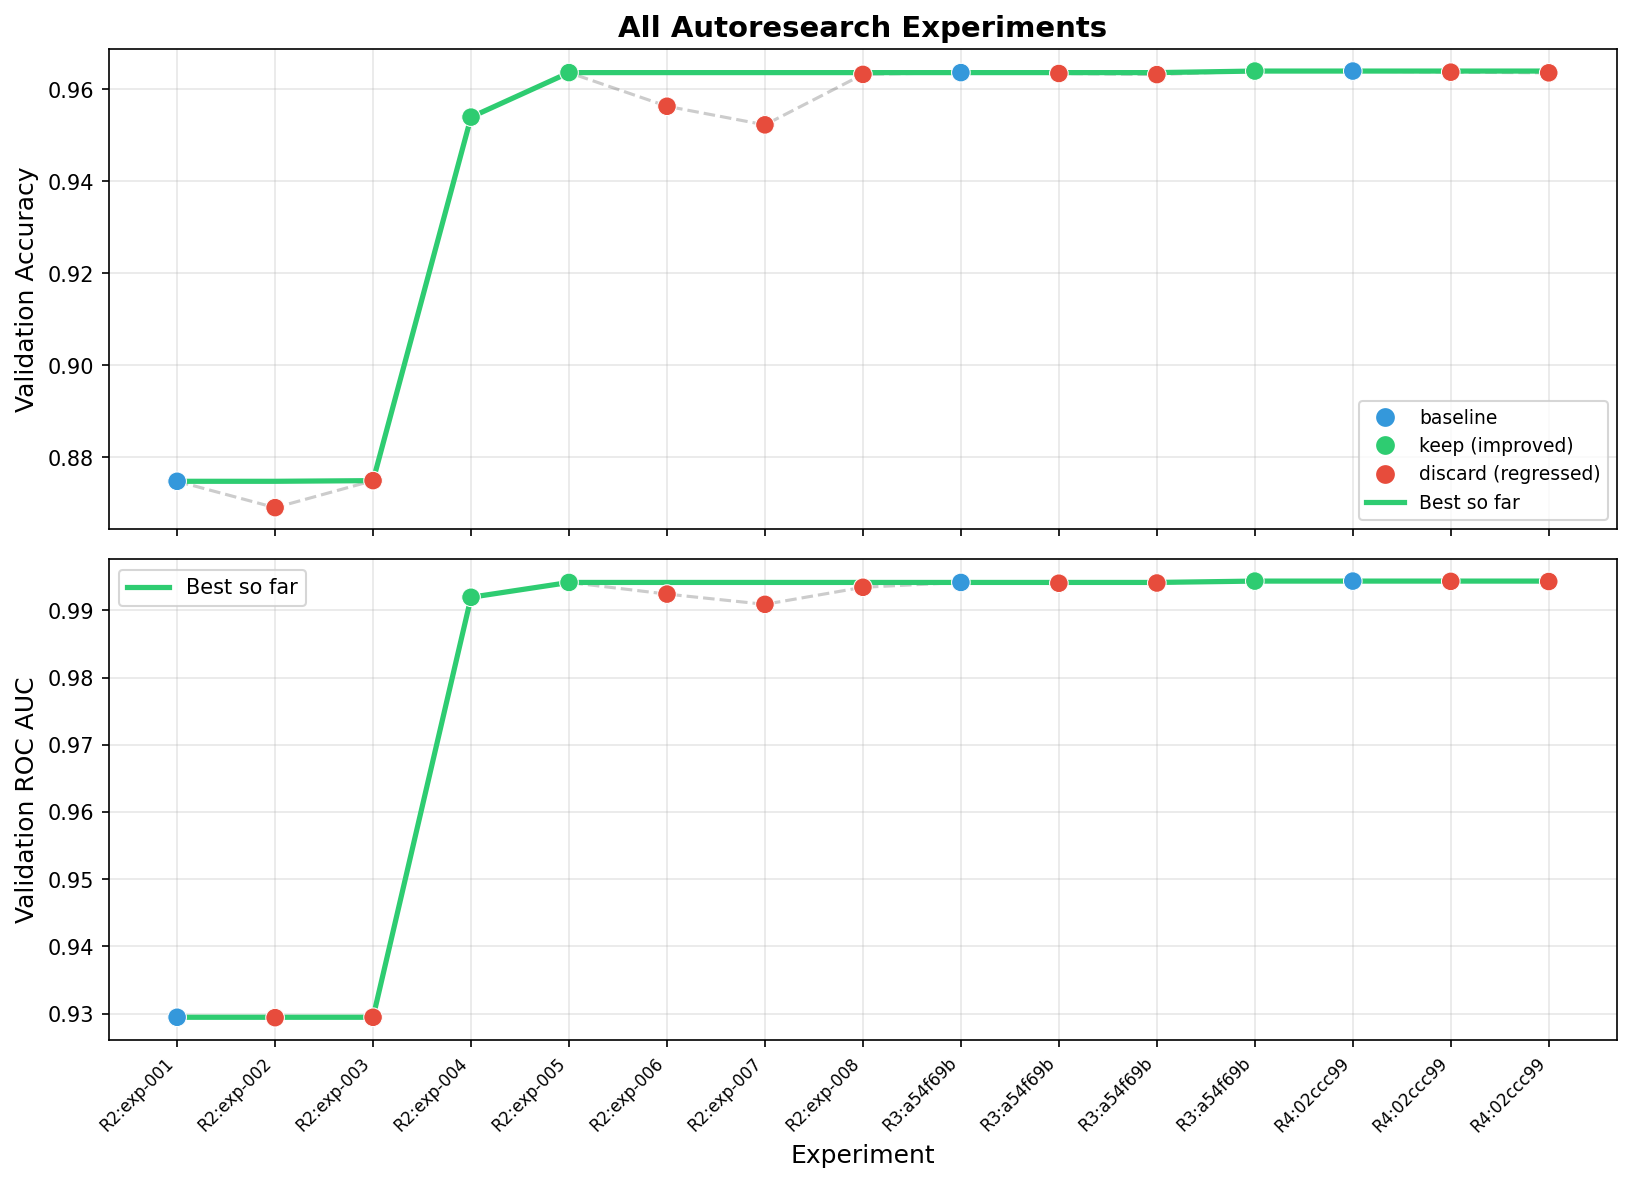
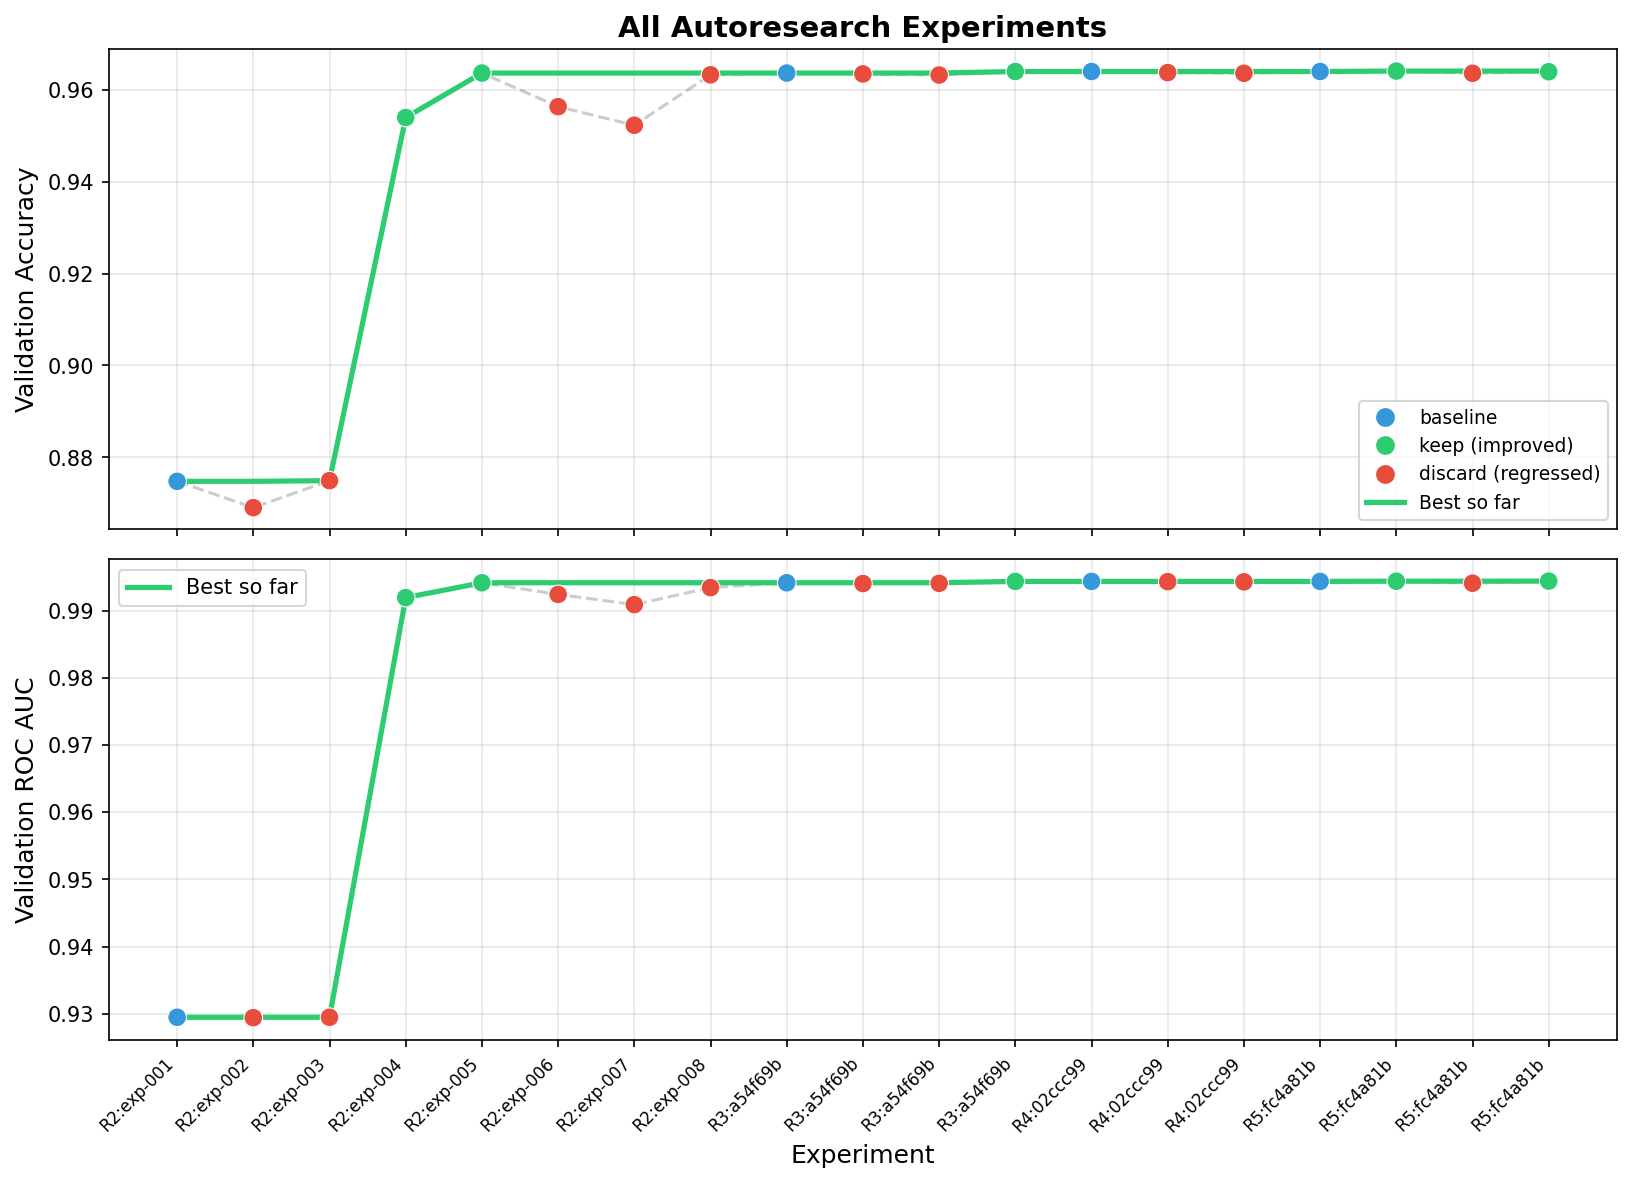
updated readme to allow for error taxonomy

diff --git a/model.py b/model.py
@@ -54,7 +54,7 @@ def build_model():
         ("preprocess", preprocess),
         ("model", RandomForestClassifier(
             criterion="log_loss",
-            n_estimators=500,
+            n_estimators=1000,
             random_state=42,
             n_jobs=1,
         )),

diff --git a/README.md b/README.md
@@ -20,6 +20,10 @@ Below is a description of the core directories and configuration files in this r
 - `performance.png`: Best model from each autoresearch run.
 - `performance_all_models.png`: All logged autoresearch experiments across runs.
 
+## Errors Encountered
+
+- May 9, 2026: Five weeks into the project, we realized that the autoresearch agent was not actually using both of the resplit `test.csv` and `train.csv` files. Instead, it was only using `train.csv` and then creating a new 80/20 train/validation split from that file. Because this was discovered so late, we will continue the project using 80% of the available resplit data for the sake of consistency across the experiment log.
+
 ## Experiment Log
 
 Track the performance of manual baseline models against the automated research runs below. We use `ROC AUC` as the primary model-selection metric throughout autoresearch; `accuracy` is included as a secondary metric for easier side-by-side viewing.
@@ -42,6 +46,10 @@ Track the performance of manual baseline models against the automated research r
 | Random Forest Log Loss | Autoresearch |4|26.97 seconds |0.9944 | 0.9640 | Preserved | 3-iteration run baseline using the current preserved best `RandomForestClassifier(criterion='log_loss', n_estimators=500, n_jobs=1)`. |
 | Random Forest + Engineered Aggregate Features | Autoresearch |4|29.48 seconds |0.9943 | 0.9637 | Deleted | Iteration 2 discarded. Added aggregate service and delay features in preprocessing, but ROC AUC stayed below the run baseline. |
 | Random Forest + Aggregate Features and Flags | Autoresearch |4|28.19 seconds |0.9943 | 0.9636 | Deleted | Iteration 3 discarded. Added delay and traveler-profile flags on top of engineered aggregates, but still did not beat the baseline ROC AUC. |
+| Random Forest Log Loss | Autoresearch |5|27.26 seconds |0.9944 | 0.9640 | Preserved | 4-iteration run baseline using the current preserved best `RandomForestClassifier(criterion='log_loss', n_estimators=500, n_jobs=1)`. |
+| Random Forest Log Loss n=800 | Autoresearch |5|45.04 seconds |0.9944 | 0.9641 | Preserved | Iteration 2 kept. Increasing to 800 trees slightly improved ROC AUC and became the new best model. |
+| Random Forest n=800 Ordinal Categories | Autoresearch |5|46.89 seconds |0.9941 | 0.9636 | Deleted | Iteration 3 discarded. Replacing one-hot categorical encoding with ordinal encoding reduced ROC AUC. |
+| Random Forest Log Loss n=1000 | Autoresearch |5|52.05 seconds |0.9944 | 0.9639 | Preserved | Iteration 4 kept and became the new best model. Increasing to 1000 trees slightly improved ROC AUC over the 800-tree forest. |
 
 \* Accuracy values for the first three logged rows were not preserved because this column was added after those earlier runs had already been documented.
 